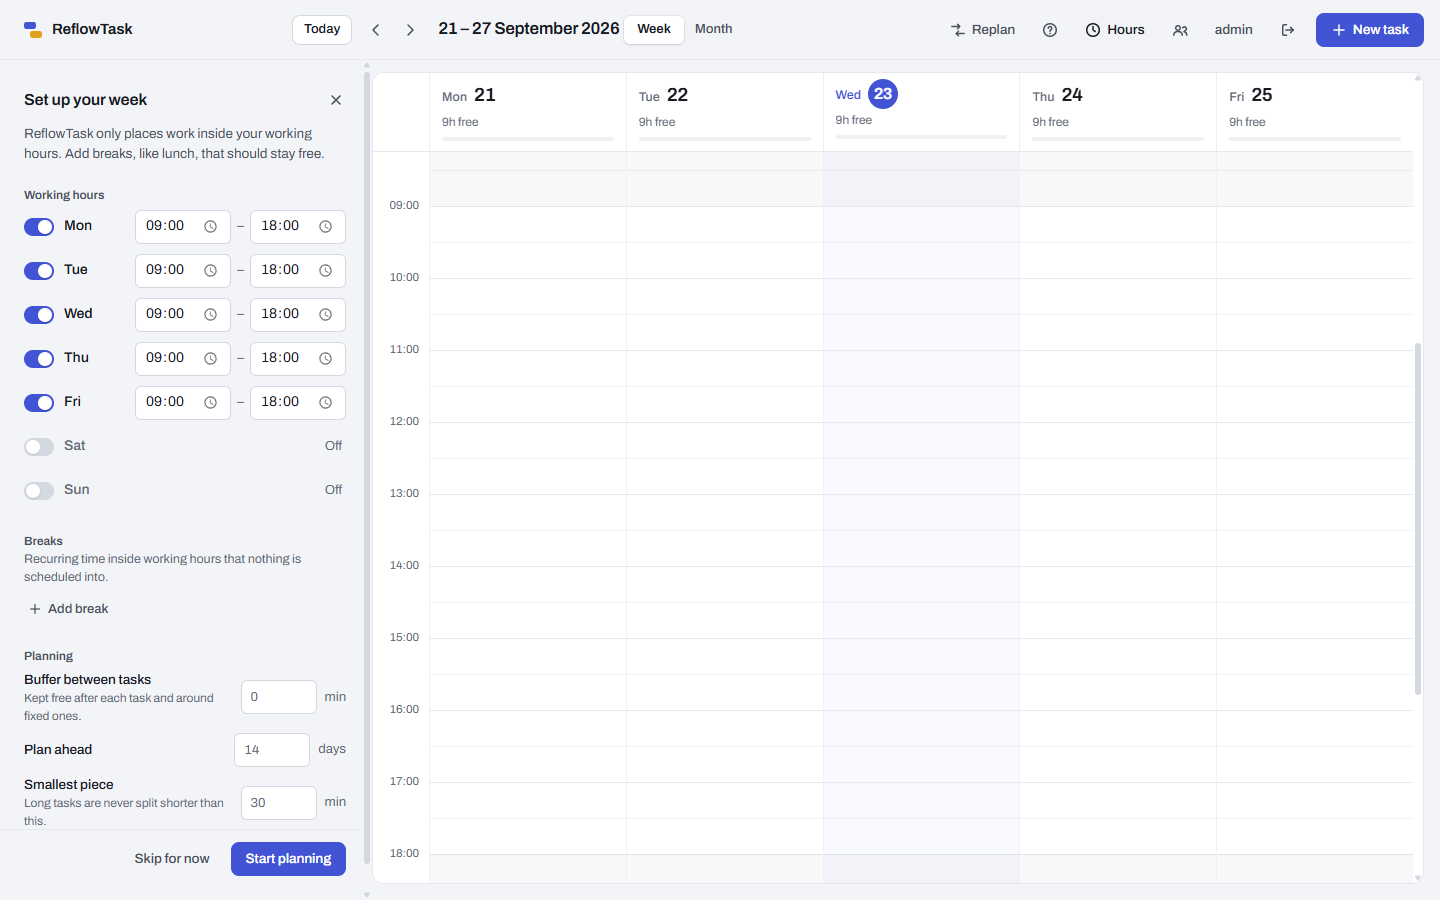
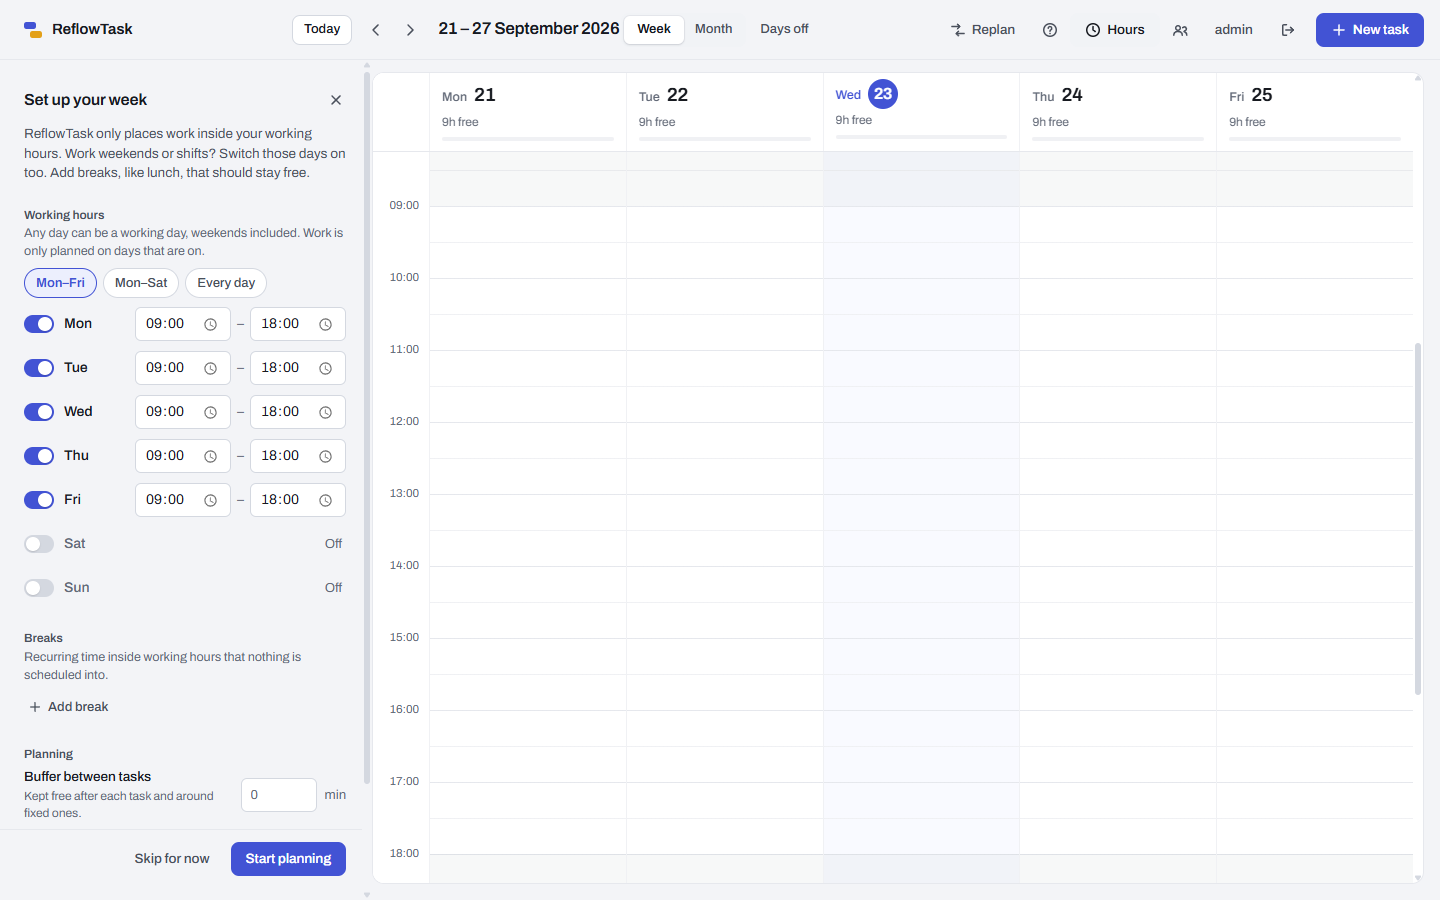
docs: make the setup guide match what actually happens
REFLOWTASK_REFLOW_CRON was documented but never passed to the container; the
port is now REFLOWTASK_PORT in .env so changing it no longer breaks git pull.
Covers working weekends, Windows for the reset script, dphys-swapfile only
on some Pi OS versions, realistic Pi build time, and fresh screenshots.

diff --git a/docs/SETUP.md b/docs/SETUP.md
@@ -56,6 +56,7 @@ Set three things in `.env`:
 | --- | --- |
 | `POSTGRES_PASSWORD` | A long random password for the database. Only the app uses it, so you will never type it again. |
 | `TZ` | The timezone your working hours are in, for example `Europe/Berlin` or `America/New_York`. The scheduler works in wall-clock time, and a container defaults to UTC, so leaving this wrong puts every block at the wrong hour. |
+| `REFLOWTASK_PORT` | `8080` | The port the app is reached on |
 | `REFLOWTASK_INITIAL_ADMIN_PASSWORD` | The password for the first account (`admin`), at least 8 characters. Remove the `#` in front of the line. |
 
 If you skip the last one, the admin's password is the well-known `changeme` until you log in and
@@ -70,7 +71,7 @@ docker compose up -d --build
 
 The first run downloads the base images and builds the backend and frontend, and the backend build
 also runs the whole test suite, so a broken build never gets as far as running. Expect a couple of
-minutes on a PC and around ten on a Raspberry Pi 5. Later starts take seconds.
+minutes on a PC and roughly five to ten on a Raspberry Pi 5. Later starts take seconds.
 
 Check that everything is up:
 
@@ -81,8 +82,9 @@ docker compose logs backend  # ends with "Started ReflowtaskApplication"
 
 It is now listening on port **8080**. Open `http://<the machine's address>:8080` from any device
 on your network. On the machine itself that is <http://localhost:8080>. To find its address, run
-`hostname -I` on the machine. To use another port, change `"8080:80"` under `frontend` in
-`docker-compose.yml`.
+`hostname -I` on the machine. To use another port, set `REFLOWTASK_PORT` in `.env` and run
+`docker compose up -d` again. Change settings in `.env`, not in `docker-compose.yml`, so that
+`git pull` keeps working when you update.
 
 ## 4. First login
 
@@ -94,8 +96,10 @@ If you did not set `REFLOWTASK_INITIAL_ADMIN_PASSWORD`, log in with `changeme`; 
 you to choose your own password before it shows anything else.
 
 The first time you log in, a short setup asks for your working hours, breaks and how far ahead to
-plan. ReflowTask only places work inside your working hours, so this matters. You can change all of
-it later from **Hours**.
+plan. ReflowTask only places work inside your working hours, so this matters. Any day can be a
+working day: if you work weekends or shifts, pick **Mon–Sat** or **Every day**, or switch single
+days on. A day you switch on takes the hours of your first working day, which you can then adjust.
+You can change all of it later from **Hours**.
 
 ![First-run setup: working hours, breaks and planning settings](images/first-run.png)
 
@@ -228,6 +232,8 @@ The temporary password works once: the person is made to choose their own straig
 shell on the device is the credential, which is why this needs no login. The same command also
 clears a login lockout.
 
+On Windows, run the script in Git Bash or WSL, or run the command below directly.
+
 The script is a thin wrapper. It runs `docker compose exec -T backend java -jar app.jar` with
 `--spring.main.web-application-type=none --reflowtask.reset-password.username=<name>`, so you can
 run that yourself, or the equivalent against a jar you started without Docker.
@@ -244,8 +250,9 @@ Set these in `.env` (Docker) or as environment variables.
 | `REFLOWTASK_REFLOW_CRON` | `0 0 * * * *` | When the missed-work check runs (Spring cron, six fields). Hourly by default; `-` disables it. |
 | `SPRING_DATASOURCE_URL`, `_USERNAME`, `_PASSWORD` | set by `docker-compose.yml` | Database connection, if you run PostgreSQL yourself |
 
-Working hours, breaks, buffer, planning horizon and minimum block size are set per person in the
-app, under **Hours**.
+Working hours (any day of the week, weekends included), breaks, buffer, planning horizon and
+minimum block size are set per person in the app, under **Hours**. The week view hides days
+without working hours; the **Days off** button shows them.
 
 ## Running without Docker
 
@@ -294,8 +301,8 @@ device. Make sure the machine's firewall allows port 8080 (`sudo ufw allow 8080/
 ufw).
 
 **"Bind for 0.0.0.0:8080 failed: port is already allocated".**
-Something else uses port 8080. Change `"8080:80"` in `docker-compose.yml` to, say, `"8090:80"` and
-run `docker compose up -d` again.
+Something else uses port 8080. Set `REFLOWTASK_PORT=8090` (or any free port) in `.env` and run
+`docker compose up -d` again.
 
 **Blocks show up at the wrong hour.**
 `TZ` in `.env` does not match the timezone you think in. Fix it and run `docker compose up -d`.
@@ -317,13 +324,17 @@ one. Either put the old password back in `.env`, or, if you have no data yet, ru
 `docker compose down -v` to start over.
 
 **The build is killed or runs out of memory.**
-On a board with 2 GB of RAM or less, add swap before building:
+On a board with 2 GB of RAM or less, add swap before building. On Raspberry Pi OS versions that
+use `dphys-swapfile` (check with `systemctl status dphys-swapfile`):
 
 ```bash
 sudo dphys-swapfile swapoff
 sudo sed -i 's/^CONF_SWAPSIZE=.*/CONF_SWAPSIZE=2048/' /etc/dphys-swapfile
 sudo dphys-swapfile setup && sudo dphys-swapfile swapon
 ```
+
+On other systems, create a swap file with `fallocate`, `mkswap` and `swapon`, as your distribution
+documents.
 
 **I want to see what is going on.**
 `docker compose logs -f backend` follows the backend. The hourly job logs a line whenever it
